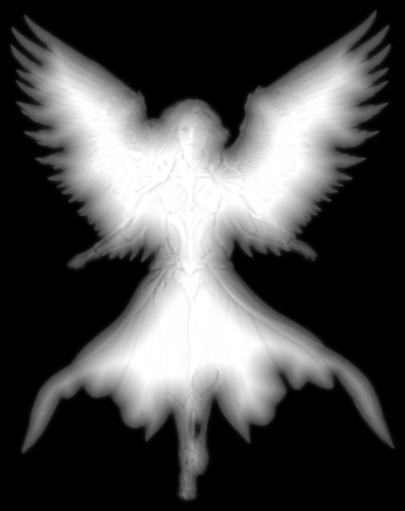
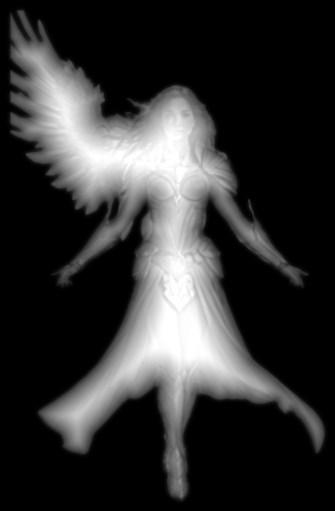
fix(fama): Celeris mas cerca del grupo y pelirroja, y Nash deja de estirarse
Tres detalles que pidio Miguel:
- Celeris volaba demasiado separada de la fila: se acerca 1,1 unidades.
- Su arte se rehace con el pelo rojo (mismo personaje y colores por lo demas).
- El gesto de Nash soplaba tanto viento que el aleteo estiraba la figura y se
  notaba que es una imagen plana: el aleteo se acota en el shader y el picado
  hacia la camara es mucho mas corto.

diff --git a/src/lib/fama/shaders.ts b/src/lib/fama/shaders.ts
@@ -56,13 +56,16 @@ void main() {
   p.x += alto * sin(t * 1.3 + uv.x * 4.0) * 0.004 * H * viento;
 
   // los que vuelan: aleteo lento (los tercios exteriores de la imagen, de
-  // la cintura hacia arriba, suben y bajan) y las telas ondean más
+  // la cintura hacia arriba, suben y bajan) y las telas ondean más.
+  // El aleteo se mantiene CORTO aunque el gesto sople viento: pasado un
+  // punto la figura deja de leerse como un ala y se ve como una imagen
+  // estirada.
   if (uVuelo > 0.5) {
     float lado = abs(uv.x - 0.5) * 2.0;
     float ala = smoothstep(0.2, 0.95, lado) * smoothstep(0.3, 0.7, uv.y);
     float bat = sin(t * 2.2);
-    p.y += ala * ala * bat * 0.09 * H * (1.0 + uWind * 2.5);
-    p.z -= ala * (0.5 + 0.5 * bat) * 0.06 * H;
+    p.y += ala * ala * bat * 0.075 * H * (1.0 + uWind * 0.7);
+    p.z -= ala * (0.5 + 0.5 * bat) * 0.05 * H;
     p.x += tela * sin(t * 3.0 + uv.y * 10.0) * 0.008 * H;
   }
 

diff --git a/src/lib/fama/efectos.ts b/src/lib/fama/efectos.ts
@@ -507,8 +507,10 @@ export const EFECTOS: Record<EfectoId, Efecto> = {
     gesto: GESTO.ninguno,
     paso(c, t) {
       const kk = k(t);
-      c.mover(-0.35 * kk, 0.9 * kk);
-      c.uni.uWind.value = kk;
+      // el picado es corto a propósito: si se acerca mucho a la cámara, la
+      // figura plana se nota y parece que se deforma
+      c.mover(-0.12 * kk, 0.4 * kk);
+      c.uni.uWind.value = kk * 0.45;
       const pecho = c.ancla([0.5, 0.42], -0.12);
       const g = flash(c, "halo", "destello");
       g.obj.position.copy(pecho);

diff --git a/src/lib/fama/leyendas.ts b/src/lib/fama/leyendas.ts
@@ -114,7 +114,7 @@ export const LEYENDAS: Leyenda[] = [
     mano: [0.5, 0.5], escala: 1.06, lider: true, vuela: { x: 0, y: 0.85, z: 1.3 } },
   // Celeris, sublíder: vuela en el flanco izquierdo (el lado corto de la fila)
   { id: "celeris", nombre: "Celeris", guild: IMPERIUM, efecto: "halo", color: "#9fdcff",
-    mano: [0.5, 0.5], escala: 0.95, vuela: { x: -7.4, y: 1.35, z: 0.3 } },
+    mano: [0.5, 0.5], escala: 0.95, vuela: { x: -6.3, y: 1.35, z: 0.3 } },
 ];
 
 // Proporción ancho/alto de cada imagen (la escribe procesar_leyendas.py).

diff --git a/scripts/fama/generar_leyendas.py b/scripts/fama/generar_leyendas.py
@@ -116,9 +116,9 @@ LEYENDAS: list[tuple[str, str, str, int]] = [
      "fully visible, floating with no ground under his feet", 117),
     ("celeris", "Celeris",
      "female Daeva archmage flying in mid air with large luminous pale blue feathered wings spread "
-     "wide, fully covered flowing silver and sky blue robe armor, long white hair and cloth streaming "
-     "in the wind, holding a glowing crystal staff, graceful hovering pose seen from the front, whole "
-     "body and both wings fully visible, floating with no ground under her feet", 118),
+     "wide, fully covered flowing silver and sky blue robe armor, long vivid red hair and cloth "
+     "streaming in the wind, holding a glowing crystal staff, graceful hovering pose seen from the "
+     "front, whole body and both wings fully visible, floating with no ground under her feet", 318),
 ]
 
 
